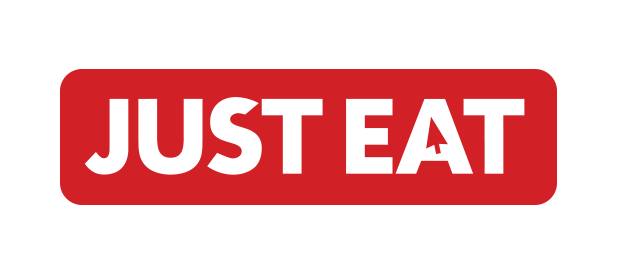
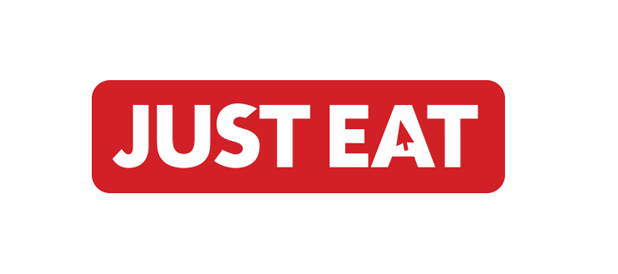
Adding more images to work and homepage and updating work section with new info

Changed region(s): [[0.0922, 0.2336, 0.9223, 0.7591]]

diff --git a/dist/work.html b/dist/work.html
@@ -70,6 +70,22 @@
 	<div class="work-content">
 		<section class="work-section work-section--clients">
 			<article id="activision" class="work-item separator-top">
+				<time class="work-item-time">2015</time>
+				<h2 class="work-item-title">JUST EAT</h2>
+
+				<div class="work-item-img adaptive-image" data-adaptive="" data-adaptive-image-breakpoints="320 480" data-alt="JUST EAT Logo" data-img-320="assets/img/work/work-justeat.jpg" data-img-480="assets/img/work/work-justeat-mid.jpg" data-img-max="assets/img/work/work-justeat.jpg">
+					<noscript>
+						<img src="assets/img/work/work-justeat.jpg" width="900" height="510" alt="JUST EAT Logo" />
+					</noscript>
+				</div>
+
+				<div class="work-item-description">
+					<p>In May 2015, I started work as part of the International Platform Improvements team at JUST EAT.</p>
+					<p>My role is to help improve the front-end architecture and process across all of JUST EAT’s international websites.</p>
+				</div>
+			</article>
+
+			<article id="activision" class="work-item separator-top">
 				<time class="work-item-time">2014</time>
 				<h2 class="work-item-title">Activision – Skylanders</h2>
 
@@ -256,7 +272,7 @@
 				<time class="work-item-time">2015</time>
 				<h2 class="work-item-title">Kickoff</h2>
 
-				<a href="http://tmwagency.github.io/kickoff/" rel="external">
+				<a href="http://trykickoff.github.io/" title="Visit the Kickoff Documentation Site" rel="external">
 					<div class="work-item-img adaptive-image" data-adaptive="" data-adaptive-image-breakpoints="320 480" data-alt="Image of the Kickoff Logo" data-img-320="assets/img/work/work-kickoff-small.jpg" data-img-480="assets/img/work/work-kickoff-mid.jpg" data-img-max="assets/img/work/work-kickoff.jpg">
 						<noscript>
 							<img src="assets/img/work/work-kickoff.jpg" width="900" height="510" alt="Image of the Kickoff Logo" />
@@ -265,11 +281,32 @@
 				</a>
 
 				<div class="work-item-description">
-					<p>Developed in partnership with <a href="https://twitter.com/mrmartineau" rel="external">Zander Martineau</a> at TMW, Kickoff is a lightweight, flexible and robust front-end framework that is a great starting point for any web site; we use it on all of our front-end projects at TMW.</p>
+					<p>Developed in partnership with <a href="https://twitter.com/mrmartineau" rel="external">Zander Martineau</a>, <a href="http://trykickoff.github.io/" title="Visit the Kickoff Documentation Site">Kickoff</a> is a lightweight, flexible and robust front-end framework that is a great starting point for any web site.</p>
 					<p>Kickoff aims to help devs get up and running as quickly as possible without adding the bloat that other frameworks can lead to.</p>
 					<p>The framework includes a Sass-based CSS framework, a responsive grid system, beautiful typographic styles, JavaScript helpers, utilities and a great set of boilerplates for a number of eventualities.</p>
 
-					<a href="http://tmwagency.github.io/kickoff/" class="btn" rel="external">View documentation</a>
+					<a href="http://trykickoff.github.io/" class="btn" rel="external">View documentation</a>
+				</div>
+			</article>
+
+
+			<article id="labs-statix" class="work-item separator-top">
+				<time class="work-item-time">2015</time>
+				<h2 class="work-item-title">Statix</h2>
+
+				<a href="http://trykickoff.github.io/statix/" rel="external">
+					<div class="work-item-img adaptive-image" data-adaptive="" data-adaptive-image-breakpoints="320 480" data-alt="Image of the Statix Logo" data-img-320="assets/img/work/work-statix-small.jpg" data-img-480="assets/img/work/work-statix-mid.jpg" data-img-max="assets/img/work/work-statix.jpg">
+						<noscript>
+							<img src="assets/img/work/work-statix.jpg" width="900" height="510" alt="Image of the Statix Logo" />
+						</noscript>
+					</div>
+				</a>
+
+				<div class="work-item-description">
+					<p>Developed in partnership with <a href="https://twitter.com/mrmartineau" rel="external">Zander Martineau</a>, Statix makes creating and working with static HTML templates quick and easy.</p>
+					<p>Statix is built on top of Assemble, Kickoff and Grunt with the aim of harnessing the power of all three to give developers a solid starting point when building static sites or templating designs.</p>
+
+					<a href="http://trykickoff.github.io/statix/" class="btn" rel="external">View documentation</a>
 				</div>
 			</article>
 

diff --git a/dist/index.html b/dist/index.html
@@ -107,48 +107,49 @@
 
 	<div class="homeCarousel-wrapper">
 		<div class="homeCarousel-carousel">
+			<article id="workArticle1" class="homeCarousel-carousel-item" data-name="Just Eat">
+				<a href="work#justeat" title="JUST EAT">
+					<img class="featureImg" src="assets/img/work/home-justeat.png" alt="JUST EAT Logo">
+					<div class="homeCarousel-carousel-item-title"><h3>JUST EAT</h3></div>
+				</a>
+			</article>
 			<article id="workArticle4" class="homeCarousel-carousel-item" data-name="BBC GoodFood">
 				<a href="work#bbcgoodfood" title="BBC GoodFood">
 					<img class="featureImg" src="assets/img/work/home-bbc.png" alt="BBC GoodFood Logo">
 					<div class="homeCarousel-carousel-item-title"><h3>BBC GoodFood</h3></div>
 				</a>
 			</article>
+			<article id="workArticle2" class="homeCarousel-carousel-item" data-name="Lynx Peace">
+				<a href="work#lynxpeace" title="Lynx Peace">
+					<img class="featureImg" src="assets/img/work/home-peace.png" alt="Lynx Peace Logo">
+					<div class="homeCarousel-carousel-item-title"><h3>Lynx Peace</h3></div>
+				</a>
+			</article>
+			<article id="workArticle3" class="homeCarousel-carousel-item" data-name="Christmas Tracker">
+				<a href="work#labs-christmastracker" title="Christmas Tracker">
+					<img class="featureImg" src="assets/img/work/home-christmastracker.png" alt="Logo for ChristmasTracker.com">
+					<div class="homeCarousel-carousel-item-title"><h3>Christmas Tracker</h3></div>
+				</a>
+			</article>
 			<article id="workArticle5" class="homeCarousel-carousel-item" data-name="TMW Kickoff">
-				<a href="work#labs" title="Kickoff">
+				<a href="work#labs-kickoff" title="Kickoff">
 					<img class="featureImg" src="assets/img/work/home-kickoff.png" alt="Kickoff Logo">
 					<div class="homeCarousel-carousel-item-title"><h3>TMW Kickoff</h3></div>
-				</a>
-			</article>
-			<article id="workArticle1" class="homeCarousel-carousel-item" data-name="Uncharted 3">
-				<a href="work#uncharted3" title="Uncharted 3">
-					<img class="featureImg" src="assets/img/work/home-uncharted.jpg" alt="Image of Drake from Uncharted">
-					<div class="homeCarousel-carousel-item-title"><h3>Uncharted 3 </h3></div>
-				</a>
-			</article>
-			<article id="workArticle2" class="homeCarousel-carousel-item" data-name="RSPCA">
-				<a href="work#rspca" title="RSPCA">
-					<img class="featureImg" src="assets/img/work/home-rspca.jpg" alt="Image of a Tiger">
-					<div class="homeCarousel-carousel-item-title"><h3>RSPCA</h3></div>
-				</a>
-			</article>
-			<article id="workArticle3" class="homeCarousel-carousel-item" data-name="Lynx Mass Debates">
-				<a href="work#lynxmassdebates" title="Lynx Mass Debates">
-					<img class="featureImg" src="assets/img/work/home-massdebates.jpg" alt="Picture of smiley and sad faces">
-					<div class="homeCarousel-carousel-item-title"><h3>Lynx Mass Debates</h3></div>
 				</a>
 			</article>
 		</div>
 
 		<div id="homeCarousel-canvasFrame" class="homeCarousel-canvasFrame">
-			<a href="work#bbcgoodfood" id="homeCarousel-canvasFrame-link" class="homeCarousel-canvasFrame-link">
+			<a href="work#justeat" id="homeCarousel-canvasFrame-link" class="homeCarousel-canvasFrame-link">
 				<canvas id="homeCarousel-canvasFrame-canvas" class="homeCarousel-canvasFrame-canvas" width="618" height="272"></canvas>
 				<div class="homeCarousel-carousel-item-title">
-					<h3>BBC GoodFood</h3>
+					<h3>JUST EAT</h3>
 				</div>
 			</a>
 		</div>
 	</div>
 </section><!-- End of work section panel -->
+
 
 		<footer class="page-footer border-grey-white-top">
 	<!-- Social links -->

diff --git a/dist/about.html b/dist/about.html
@@ -71,7 +71,7 @@
 			<li class="about-facts-item about-facts-location icon-pin">London, UK</li>
 		</ul>
 
-		<p>I'm Ashley Nolan, a Creative Technologist working at <a href="http://tech.just-eat.com/">JUST EAT</a>.</p>
+		<p>I'm Ashley Nolan, a Senior Web UI Engineer working at <a href="http://tech.just-eat.com/">JUST EAT</a>.</p>
 		<p>I enjoy architecting large scale front-ends, playing around with new technologies and the challenge of the ever changing world of front-end technology.</p>
 		<p>I’m also a passionate Welshman – although I couldn't sound less Welsh if I tried.</p>
 		<p>If you want to find out a bit more about me, <a title="A brief history of me" href="blog/a-brief-history-of-me">go ahead and take a look</a>, find me on <a href="http://www.twitter.com/AshNolan_" rel="external">Twitter</a> or drop me an <a href="mailto:hello@ashleynolan.co.uk">email</a> – it'd be great to hear from you.</p>
